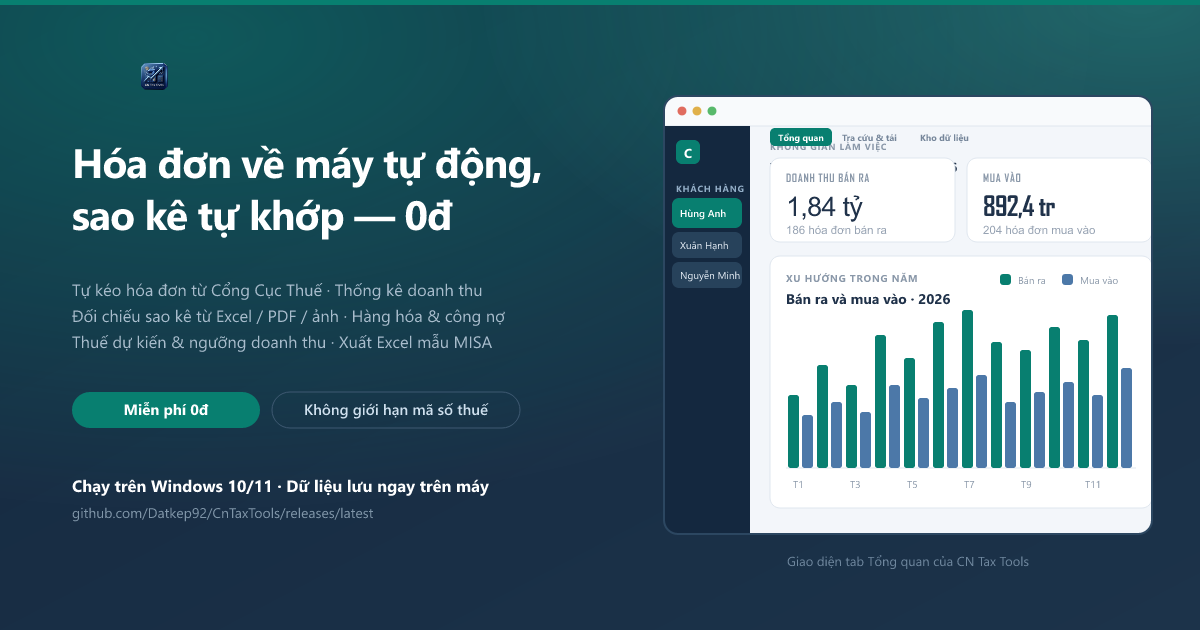
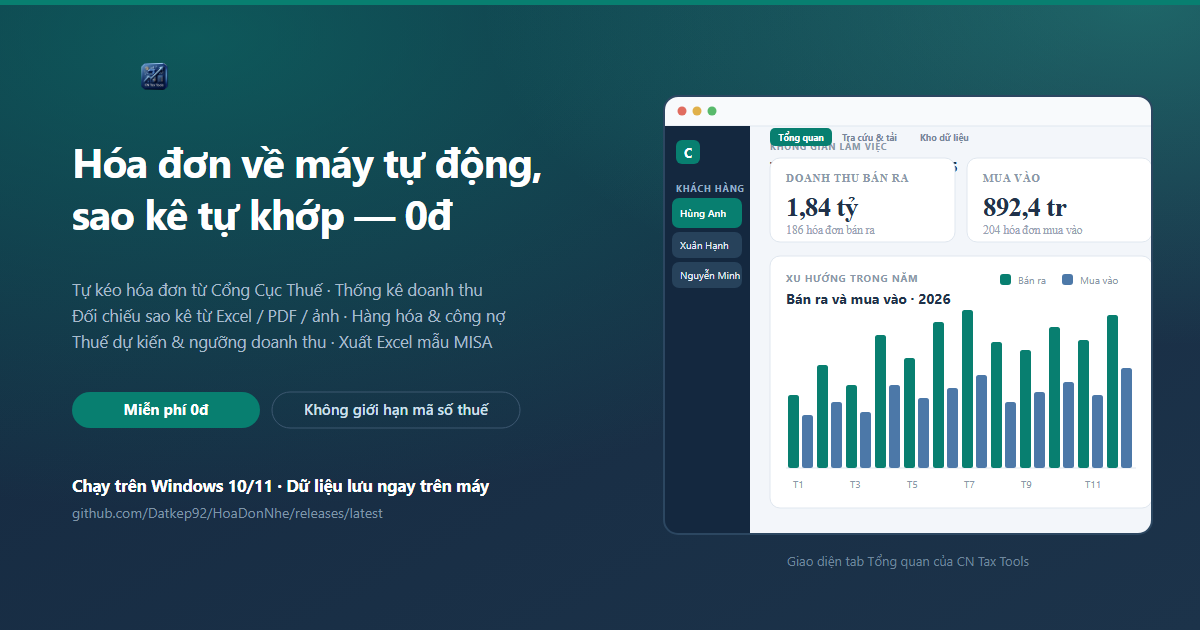
Nut tai tu dong lay link EXE moi nhat tu GitHub Releases
Link tai truoc tro toi Datkep92/CnTaxTools - repo nay khong co release nao
nen nut chet. Release thuc te nam o Datkep92/HoaDonNhe (tag cntax-vX.Y.Z).

- 6 nut tai them data-dl, href doi sang HoaDonNhe/releases/latest
- site.js tra api.github.com/repos/Datkep92/HoaDonNhe/releases/latest,
  chon dung tep CN-Tax-Tools-Setup-vX.Y.Z.exe bo qua .sha256
- Bam truoc khi tra xong se cho toi da 3 giay roi moi chuyen trang
- Cache localStorage 30 phut (GitHub gioi han 60 luot/gio cho anon)
- 8 nhan phien ban them data-dl-ver, doi theo tag release
- Footer "Ma nguon / phat hanh" tro ve HoaDonNhe
- og-cover.png ve lai duong dan trong anh

Khi API loi / mat mang / JS bi chan, href trong HTML van la
/releases/latest - GitHub tu chuyen huong ve ban moi nhat, nen
khong bao gio mat luc tai.

diff --git a/index.html b/index.html
@@ -54,7 +54,7 @@
   <div class="wrap hd-in">
     <a class="logo" href="#top">
       <img src="assets/img/logo.png" alt="CN Tax Tools" width="150" height="34">
-      <span class="ver">v1.0.8</span>
+      <span class="ver" data-dl-ver>v1.0.8</span>
     </a>
     <button class="burger" id="burger" aria-expanded="false" aria-controls="nav" aria-label="Mở menu"><i></i></button>
     <nav class="nav" id="nav" aria-label="Điều hướng chính">
@@ -65,7 +65,7 @@
       <a href="#vai-tro">Vai trò</a>
       <a href="#gia">Bảng giá</a>
       <a href="#hoi-dap">Hỏi đáp</a>
-      <a class="btn btn-p" href="https://github.com/Datkep92/CnTaxTools/releases/latest" target="_blank" rel="noopener">Tải miễn phí</a>
+      <a class="btn btn-p" href="https://github.com/Datkep92/HoaDonNhe/releases/latest" data-dl target="_blank" rel="noopener">Tải miễn phí</a>
     </nav>
   </div>
 </header>
@@ -81,7 +81,7 @@
       <h1>Hóa đơn điện tử về máy bạn <em>tự động</em> — không còn ngồi gõ tay</h1>
       <p class="lead">CN Tax Tools quay vào <b>Cổng Cục Thuế</b> lấy hóa đơn về, tự gom danh sách hàng hóa, tự đối chiếu với sao kê ngân hàng và tự tính thuế — dành cho <b>hộ kinh doanh, doanh nghiệp nhỏ và kế toán dịch vụ</b>. Thêm bao nhiêu mã số thuế cũng được, <b>miễn phí</b>.</p>
       <div class="cta-row">
-        <a class="btn btn-p btn-lg" href="https://github.com/Datkep92/CnTaxTools/releases/latest" target="_blank" rel="noopener">
+        <a class="btn btn-p btn-lg" href="https://github.com/Datkep92/HoaDonNhe/releases/latest" data-dl target="_blank" rel="noopener">
           <svg viewBox="0 0 24 24" fill="none" stroke="currentColor" stroke-width="2" stroke-linecap="round" stroke-linejoin="round" aria-hidden="true"><path d="M21 15v4a2 2 0 0 1-2 2H5a2 2 0 0 1-2-2v-4"/><polyline points="7 10 12 15 17 10"/><line x1="12" y1="15" x2="12" y2="3"/></svg>
           Tải miễn phí — dùng ngay
         </a>
@@ -133,7 +133,7 @@
           <rect x="8" y="278" width="92" height="24" rx="6" fill="#1c334a"/>
           <text x="17" y="294" fill="#a9bfd3" style="font-size:8px">Kích hoạt</text>
           <line x1="12" y1="540" x2="96" y2="540" stroke="#27425b"/>
-          <text x="12" y="556" class="nav-s">v1.0.8 · Đã kích hoạt</text>
+          <text x="12" y="556" class="nav-s" data-dl-ver>v1.0.8 · Đã kích hoạt</text>
           <!-- header chính -->
           <text x="122" y="46" class="cap" style="fill:#76869a;font-size:7.4px">KHÔNG GIAN LÀM VIỆC</text>
           <rect x="122" y="56" width="64" height="20" rx="5" fill="#087f70"/>
@@ -359,7 +359,7 @@
               <rect x="8" y="288" width="92" height="20" rx="6" fill="#27425b"/>
               <text x="54" y="301.5" fill="#cfe0ee" text-anchor="middle" style="font-size:7.4px">Đồng bộ tất cả</text>
               <text x="12" y="540" class="side-t">TRỢ GIÚP</text>
-              <text x="17" y="556" class="nav-s">v1.0.8 · Cài đặt</text>
+              <text x="17" y="556" class="nav-s" data-dl-ver>v1.0.8 · Cài đặt</text>
               <text x="122" y="44" class="cap" style="fill:#76869a;font-size:7.2px">KHÔNG GIAN LÀM VIỆC</text>
               <text x="122" y="70" class="tab-t" style="font-size:8.8px">Tổng quan</text>
               <rect x="190" y="56" width="78" height="20" rx="5" fill="#087f70"/>
@@ -586,7 +586,7 @@
               <rect x="8" y="262" width="92" height="22" rx="6" fill="#087f70"/>
               <text x="54" y="276.5" fill="#fff" text-anchor="middle" style="font-size:7.8px;font-weight:700">＋ Thêm MST</text>
               <text x="12" y="540" class="side-t">TRỢ GIÚP</text>
-              <text x="17" y="556" class="nav-s">v1.0.8 · Cài đặt</text>
+              <text x="17" y="556" class="nav-s" data-dl-ver>v1.0.8 · Cài đặt</text>
               <text x="122" y="44" class="cap" style="fill:#76869a;font-size:7.2px">KHÔNG GIAN LÀM VIỆC</text>
               <text x="122" y="70" class="tab-t" style="font-size:8.8px">Tổng quan</text>
               <text x="190" y="70" class="tab-t" style="font-size:8.8px">Tra cứu &amp; tải</text>
@@ -802,7 +802,7 @@
               <rect x="8" y="262" width="92" height="22" rx="6" fill="#087f70"/>
               <text x="54" y="276.5" fill="#fff" text-anchor="middle" style="font-size:7.8px;font-weight:700">＋ Thêm MST</text>
               <text x="12" y="540" class="side-t">TRỢ GIÚP</text>
-              <text x="17" y="556" class="nav-s">v1.0.8 · Cài đặt</text>
+              <text x="17" y="556" class="nav-s" data-dl-ver>v1.0.8 · Cài đặt</text>
               <text x="122" y="44" class="cap" style="fill:#76869a;font-size:7.2px">KHÔNG GIAN LÀM VIỆC</text>
               <text x="122" y="70" class="tab-t" style="font-size:8.8px">Tổng quan</text>
               <text x="190" y="70" class="tab-t" style="font-size:8.8px">Tra cứu &amp; tải</text>
@@ -999,7 +999,7 @@
               <rect x="8" y="262" width="92" height="22" rx="6" fill="#087f70"/>
               <text x="54" y="276.5" fill="#fff" text-anchor="middle" style="font-size:7.8px;font-weight:700">＋ Thêm MST</text>
               <text x="12" y="540" class="side-t">TRỢ GIÚP</text>
-              <text x="17" y="556" class="nav-s">v1.0.8 · Cài đặt</text>
+              <text x="17" y="556" class="nav-s" data-dl-ver>v1.0.8 · Cài đặt</text>
               <text x="122" y="44" class="cap" style="fill:#76869a;font-size:7.2px">KHÔNG GIAN LÀM VIỆC</text>
               <text x="122" y="70" class="tab-t" style="font-size:8.8px">Tổng quan</text>
               <text x="190" y="70" class="tab-t" style="font-size:8.8px">Tra cứu &amp; tải</text>
@@ -1189,7 +1189,7 @@
               <rect x="8" y="262" width="92" height="22" rx="6" fill="#087f70"/>
               <text x="54" y="276.5" fill="#fff" text-anchor="middle" style="font-size:7.8px;font-weight:700">＋ Thêm MST</text>
               <text x="12" y="540" class="side-t">TRỢ GIÚP</text>
-              <text x="17" y="556" class="nav-s">v1.0.8 · Cài đặt</text>
+              <text x="17" y="556" class="nav-s" data-dl-ver>v1.0.8 · Cài đặt</text>
               <text x="122" y="44" class="cap" style="fill:#76869a;font-size:7.2px">KHÔNG GIAN LÀM VIỆC</text>
               <text x="122" y="70" class="tab-t" style="font-size:8.8px">Tổng quan</text>
               <text x="190" y="70" class="tab-t" style="font-size:8.8px">Tra cứu &amp; tải</text>
@@ -1690,7 +1690,7 @@
               <rect x="8" y="384" width="102" height="22" rx="6" fill="#27425b"/>
               <text x="59" y="398.5" fill="#cfe0ee" text-anchor="middle" style="font-size:7.2px">Đồng bộ tất cả</text>
               <line x1="12" y1="546" x2="106" y2="546" stroke="#27425b"/>
-              <text x="12" y="560" class="nav-s" style="font-size:7px">v1.0.8 · Miễn phí 0đ</text>
+              <text x="12" y="560" class="nav-s" data-dl-ver style="font-size:7px">v1.0.8 · Miễn phí 0đ</text>
 
               <text x="132" y="46" class="cap" style="fill:#76869a;font-size:7.2px">KHÔNG GIAN LÀM VIỆC</text>
               <rect x="132" y="56" width="64" height="20" rx="5" fill="#087f70"/>
@@ -2685,7 +2685,7 @@
         <h3>Bản miễn phí <b>0đ</b> — tải về là dùng ngay</h3>
         <p>Có đủ tải hóa đơn từ cổng thuế, thống kê tổng quan, kho hàng hóa, danh sách đối tác và đối chiếu sao kê. Thêm bao nhiêu mã số thuế cũng được, không giới hạn. Không cần thẻ tín dụng, không cần đăng ký.</p>
       </div>
-      <a class="btn btn-p btn-lg" href="https://github.com/Datkep92/CnTaxTools/releases/latest" target="_blank" rel="noopener">
+      <a class="btn btn-p btn-lg" href="https://github.com/Datkep92/HoaDonNhe/releases/latest" data-dl target="_blank" rel="noopener">
         <svg viewBox="0 0 24 24" fill="none" stroke="currentColor" stroke-width="2" stroke-linecap="round" stroke-linejoin="round" aria-hidden="true"><path d="M21 15v4a2 2 0 0 1-2 2H5a2 2 0 0 1-2-2v-4"/><polyline points="7 10 12 15 17 10"/><line x1="12" y1="15" x2="12" y2="3"/></svg>
         Tải miễn phí 0đ
       </a>
@@ -2767,7 +2767,7 @@
         <h2>Tải về và thử một kỳ thật của bạn</h2>
         <p>Miễn phí 0đ, đủ toàn bộ tính năng, không giới hạn mã số thuế. Thử một kỳ thật rồi hãy quyết định có cần nâng cấp hay không.</p>
         <div class="cta-row">
-          <a class="btn btn-p btn-lg" href="https://github.com/Datkep92/CnTaxTools/releases/latest" target="_blank" rel="noopener">
+          <a class="btn btn-p btn-lg" href="https://github.com/Datkep92/HoaDonNhe/releases/latest" data-dl target="_blank" rel="noopener">
             <svg viewBox="0 0 24 24" fill="currentColor" aria-hidden="true"><path d="M12 .5a12 12 0 0 0-3.8 23.4c.6.1.8-.3.8-.6v-2c-3.3.7-4-1.6-4-1.6-.6-1.4-1.4-1.8-1.4-1.8-1-.7.1-.7.1-.7 1.2.1 1.8 1.2 1.8 1.2 1 1.8 2.8 1.3 3.4 1 .1-.8.4-1.3.7-1.6-2.7-.3-5.5-1.3-5.5-6 0-1.3.5-2.4 1.2-3.2-.1-.3-.5-1.5.1-3.2 0 0 1-.3 3.3 1.2a11.5 11.5 0 0 1 6 0c2.3-1.5 3.3-1.2 3.3-1.2.6 1.7.2 2.9.1 3.2.8.8 1.2 1.9 1.2 3.2 0 4.7-2.8 5.7-5.5 6 .4.4.8 1.1.8 2.2v3.3c0 .3.2.7.8.6A12 12 0 0 0 12 .5Z"/></svg>
             Tải bản mới nhất
           </a>
@@ -2800,8 +2800,8 @@
       <div>
         <h3>Liên hệ</h3>
         <ul>
-          <li><a href="https://github.com/Datkep92/CnTaxTools/releases/latest" target="_blank" rel="noopener">Tải phần mềm</a></li>
-          <li><a href="https://github.com/Datkep92/CnTaxTools" target="_blank" rel="noopener">Mã nguồn / phát hành</a></li>
+          <li><a href="https://github.com/Datkep92/HoaDonNhe/releases/latest" data-dl target="_blank" rel="noopener">Tải phần mềm</a></li>
+          <li><a href="https://github.com/Datkep92/HoaDonNhe" target="_blank" rel="noopener">Mã nguồn / phát hành</a></li>
           <li><a href="https://zalo.me/0395995035" target="_blank" rel="noopener">Zalo hỗ trợ</a></li>
           <li><a href="#gia">Bảng giá</a></li>
         </ul>
@@ -2816,7 +2816,7 @@
 
 <div class="mbar">
   <a class="btn btn-s" href="https://zalo.me/0395995035" target="_blank" rel="noopener">Hỏi Zalo</a>
-  <a class="btn btn-p" href="https://github.com/Datkep92/CnTaxTools/releases/latest" target="_blank" rel="noopener">Tải miễn phí</a>
+  <a class="btn btn-p" href="https://github.com/Datkep92/HoaDonNhe/releases/latest" data-dl target="_blank" rel="noopener">Tải miễn phí</a>
 </div>
 
 <script src="assets/js/site.js" defer></script>

diff --git a/assets/js/site.js b/assets/js/site.js
@@ -89,6 +89,170 @@
   }
 
   /* ==========================================================================
+     NÚT TẢI — tự dò bản mới nhất trong GitHub Releases
+     --------------------------------------------------------------------------
+     Mọi nút tải đánh dấu `data-dl`. Trong HTML, href của chúng đã trỏ sẵn về
+     /releases/latest (GitHub tự chuyển hướng tới release mới nhất) nên kể cả khi
+     JavaScript bị chặn, mạng lỗi hay API GitHub sập, nút vẫn tải đúng bản mới —
+     chỉ mất chút tiện lợi là phải bấm thêm một lần ở trang Releases.
+
+     Có JavaScript thì ta tra API để lấy thẳng link file .exe. api.github.com có
+     CORS `*` nên gọi thẳng từ trình duyệt được, không cần máy chủ.
+
+     Cùng lần tra đó, mọi nhãn đánh dấu `data-dl-ver` cũng được đổi theo (badge
+     phiên bản ở đầu trang, các dòng "v1.0.8 · Cài đặt" trong ảnh mô phỏng) — để
+     trang không còn rơi lại số phiên bản cũ sau khi đã phát hành bản mới.
+     Chỉ tiền tố "v<số>" bị thay, phần chữ còn lại giữ nguyên.
+
+     Vì sao bấm lúc chưa tra xong vẫn tải đúng: ta chặn sự kiện click, chờ tối đa
+     3 giây cho lời gọi về rồi mới chuyển trang. Quá hạn thì thả theo href sẵn có.
+
+     Cache localStorage 30 phút: GitHub giới hạn 60 lượt/giờ cho request không
+     đăng nhập, và bản mới không xuất hiện dày đặc đến vậy.
+     ========================================================================== */
+  (function downloadLinks() {
+    var buttons = Array.prototype.slice.call(document.querySelectorAll('[data-dl]'));
+    var labels = Array.prototype.slice.call(document.querySelectorAll('[data-dl-ver]'));
+    if ((!buttons.length && !labels.length) || !window.fetch) return;
+
+    var REPO = 'Datkep92/HoaDonNhe';
+    var API = 'https://api.github.com/repos/' + REPO + '/releases/latest';
+    var CACHE_KEY = 'cntax.dl.v1';
+    var TTL_MS = 30 * 60 * 1000;
+    var WAIT_CLICK_MS = 3000;
+
+    var url = null;        // link .exe đã dò được
+    var version = null;    // số phiên bản đã đổi lên nhãn
+    var pending = null;    // promise đang chờ, dùng lại cho mọi lần bấm
+
+    /* Chỉ nhận đúng tệp bộ cài của CN Tax Tools, bỏ qua .sha256 */
+    function pickAsset(assets) {
+      if (!Array.isArray(assets)) return null;
+      for (var i = 0; i < assets.length; i++) {
+        var name = assets[i] && assets[i].name;
+        if (typeof name === 'string' && /^CN-Tax-Tools-Setup-v\d+\.\d+\.\d+\.exe$/.test(name)) {
+          return assets[i].browser_download_url || null;
+        }
+      }
+      return null;
+    }
+
+    /* Số phiên bản từ tag (cntax-v1.0.8) hoặc từ chính tên tệp — tag chuẩn hơn */
+    function pickVersion(data) {
+      var tag = data && typeof data.tag_name === 'string' ? data.tag_name : '';
+      var m = tag.match(/(\d+\.\d+\.\d+)/);
+      if (m) return m[1];
+      var assets = data && data.assets;
+      if (Array.isArray(assets) && assets[0] && typeof assets[0].name === 'string') {
+        var n = assets[0].name.match(/(\d+\.\d+\.\d+)/);
+        if (n) return n[1];
+      }
+      return null;
+    }
+
+    /* Nhãn nào bắt đầu bằng "v<số>" thì thay tiền tố đó, giữ nguyên phần còn lại.
+       Ví dụ "v1.0.8 · Cài đặt" -> "v1.0.9 · Cài đặt"; "v1.0.8" -> "v1.0.9". */
+    function applyVersion(value) {
+      if (!value) return;
+      version = value;
+      labels.forEach(function (el) {
+        var text = el.textContent || '';
+        if (!/^v\d+\.\d+\.\d+/.test(text)) return;
+        el.textContent = 'v' + value + text.replace(/^v\d+\.\d+\.\d+/, '');
+      });
+    }
+
+    function readCache() {
+      try {
+        var raw = window.localStorage.getItem(CACHE_KEY);
+        if (!raw) return null;
+        var data = JSON.parse(raw);
+        if (!data || typeof data !== 'object') return null;
+        if (Date.now() - Number(data.at || 0) > TTL_MS) return null;
+        // Chỉ nhận link https của chính repo phát hành, không tin dữ liệu lạ ghi vào
+        if (typeof data.url === 'string' && data.url.indexOf('https://github.com/' + REPO + '/releases/download/') !== 0) {
+          return null;
+        }
+        return data;
+      } catch (error) {
+        return null;   // localStorage bị chặn (chế độ riêng tư) — cứ bỏ qua cache
+      }
+    }
+
+    function writeCache(value) {
+      try {
+        window.localStorage.setItem(CACHE_KEY, JSON.stringify(value));
+      } catch (error) { /* bỏ qua */ }
+    }
+
+    function apply(cached) {
+      if (!cached) return;
+      if (cached.url && !url && buttons.length) {
+        url = cached.url;
+        buttons.forEach(function (btn) { btn.setAttribute('href', cached.url); });
+      }
+      if (cached.version && !version) applyVersion(cached.version);
+    }
+
+    function resolve() {
+      var needUrl = buttons.length && !url;
+      var needVersion = labels.length && !version;
+      if (!needUrl && !needVersion) return Promise.resolve(url);
+      if (pending) return pending;
+
+      pending = window.fetch(API, { headers: { Accept: 'application/vnd.github+json' } })
+        .then(function (res) {
+          if (!res.ok) throw new Error('HTTP ' + res.status);
+          return res.json();
+        })
+        .then(function (data) {
+          var found = { url: pickAsset(data && data.assets), version: pickVersion(data) };
+          if (found.url && !url) {
+            url = found.url;
+            buttons.forEach(function (btn) { btn.setAttribute('href', found.url); });
+          }
+          if (found.version && !version) applyVersion(found.version);
+          if (found.url || found.version) writeCache({ url: url, version: version, at: Date.now() });
+          return found.url;
+        })
+        .catch(function () {
+          return null;   // mạng lỗi / API lỗi / đổi cấu trúc -> giữ nguyên href dự phòng
+        })
+        .then(function (value) {
+          pending = null;   // cho phép thử lại ở lượt sau nếu lần này hỏng
+          return value;
+        });
+
+      return pending;
+    }
+
+    apply(readCache());
+    if ((buttons.length && !url) || (labels.length && !version)) resolve();
+
+    /* Bấm trước khi tra xong -> chờ một nhịp rồi mới đi, không mất lượt tải */
+    buttons.forEach(function (btn) {
+      btn.addEventListener('click', function (event) {
+        if (url) return;   // đã có link thẳng, để trình duyệt xử lý
+        if (event.metaKey || event.ctrlKey || event.shiftKey || event.altKey || event.button !== 0) return;
+
+        event.preventDefault();
+        var fallback = btn.getAttribute('href');
+        var settled = false;
+        var wait = window.setTimeout(function () { go(fallback); }, WAIT_CLICK_MS);
+
+        function go(target) {
+          if (settled) return;
+          settled = true;
+          window.clearTimeout(wait);
+          window.location.href = target;
+        }
+
+        resolve().then(function (value) { go(value || fallback); });
+      });
+    });
+  })();
+
+  /* ==========================================================================
      XEM TRƯỚC GIAO DIỆN — chuyển ảnh theo nút bấm, tự chạy, hỗ trợ bàn phím
      ========================================================================== */
   (function gallery() {
